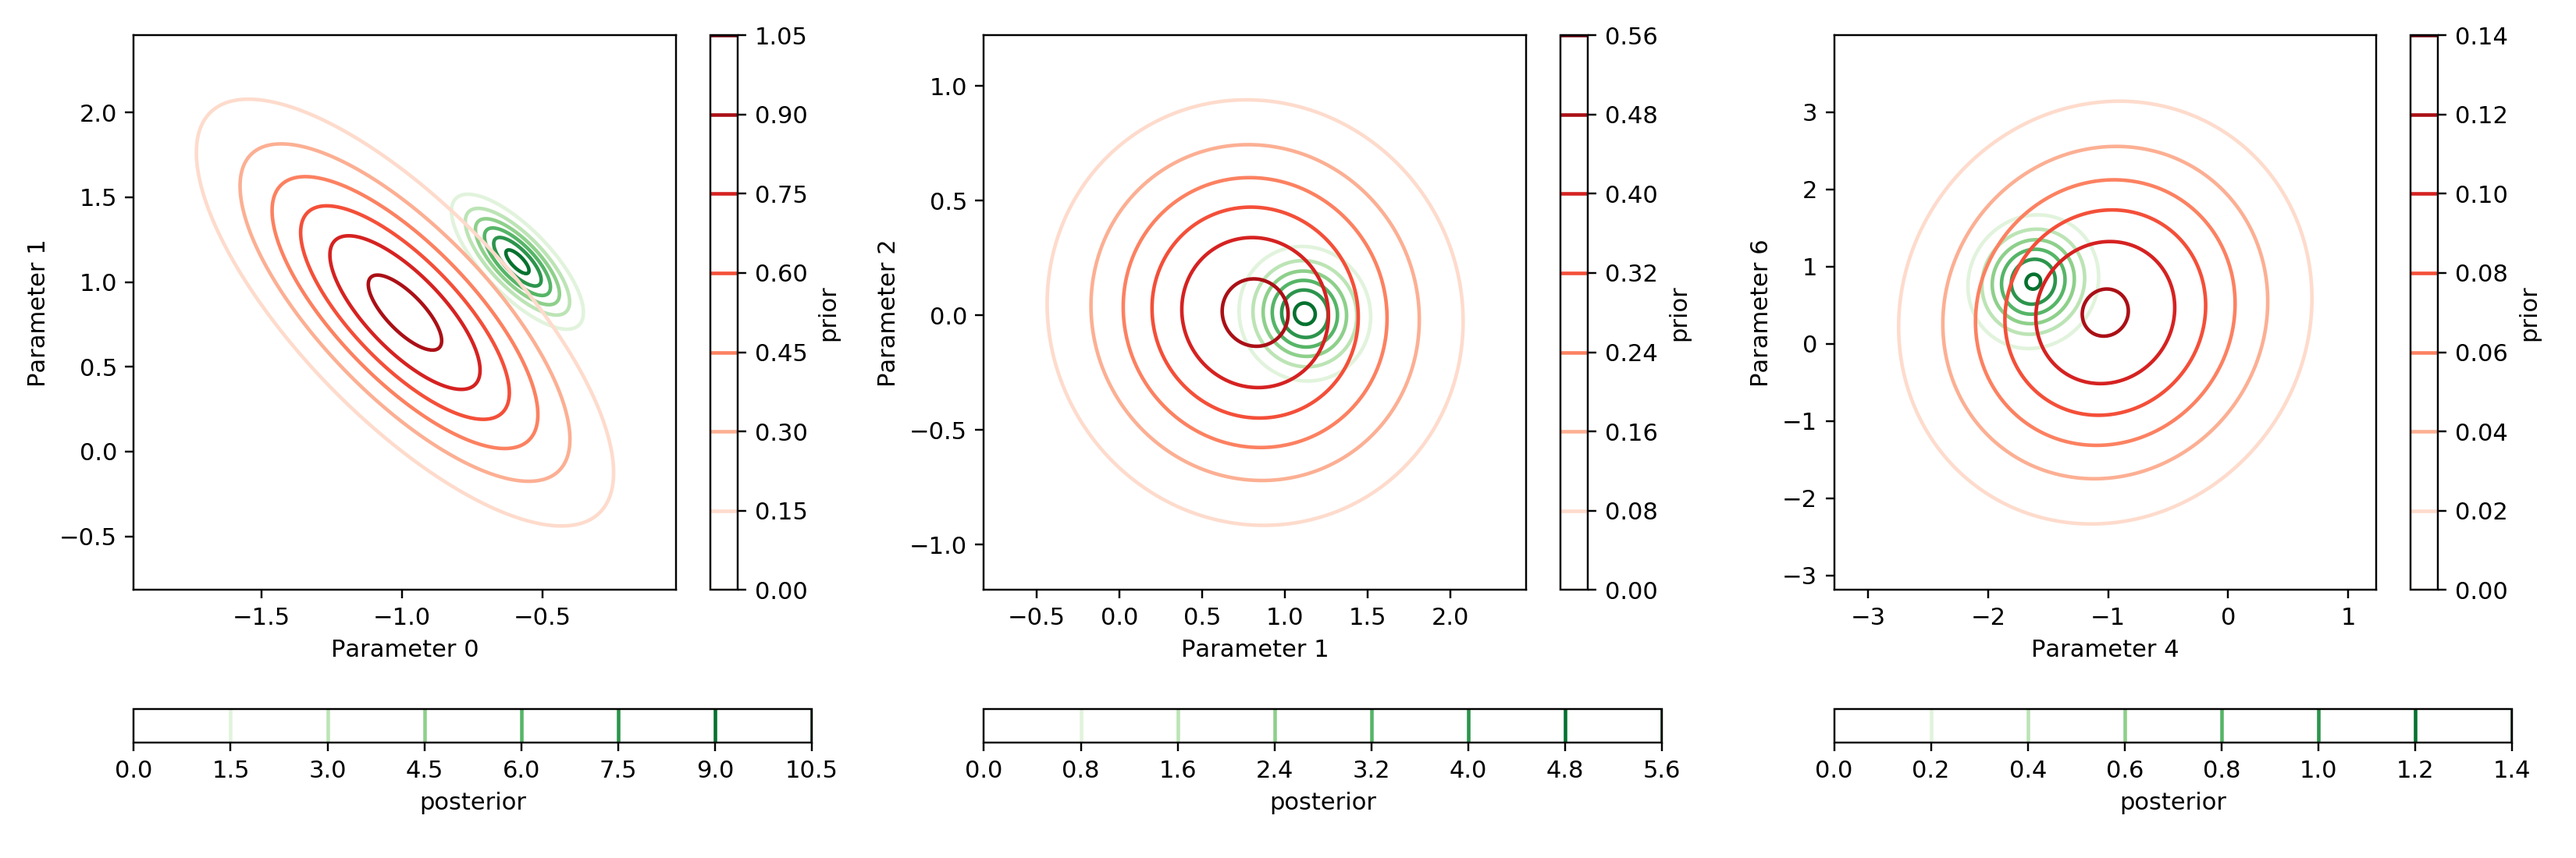
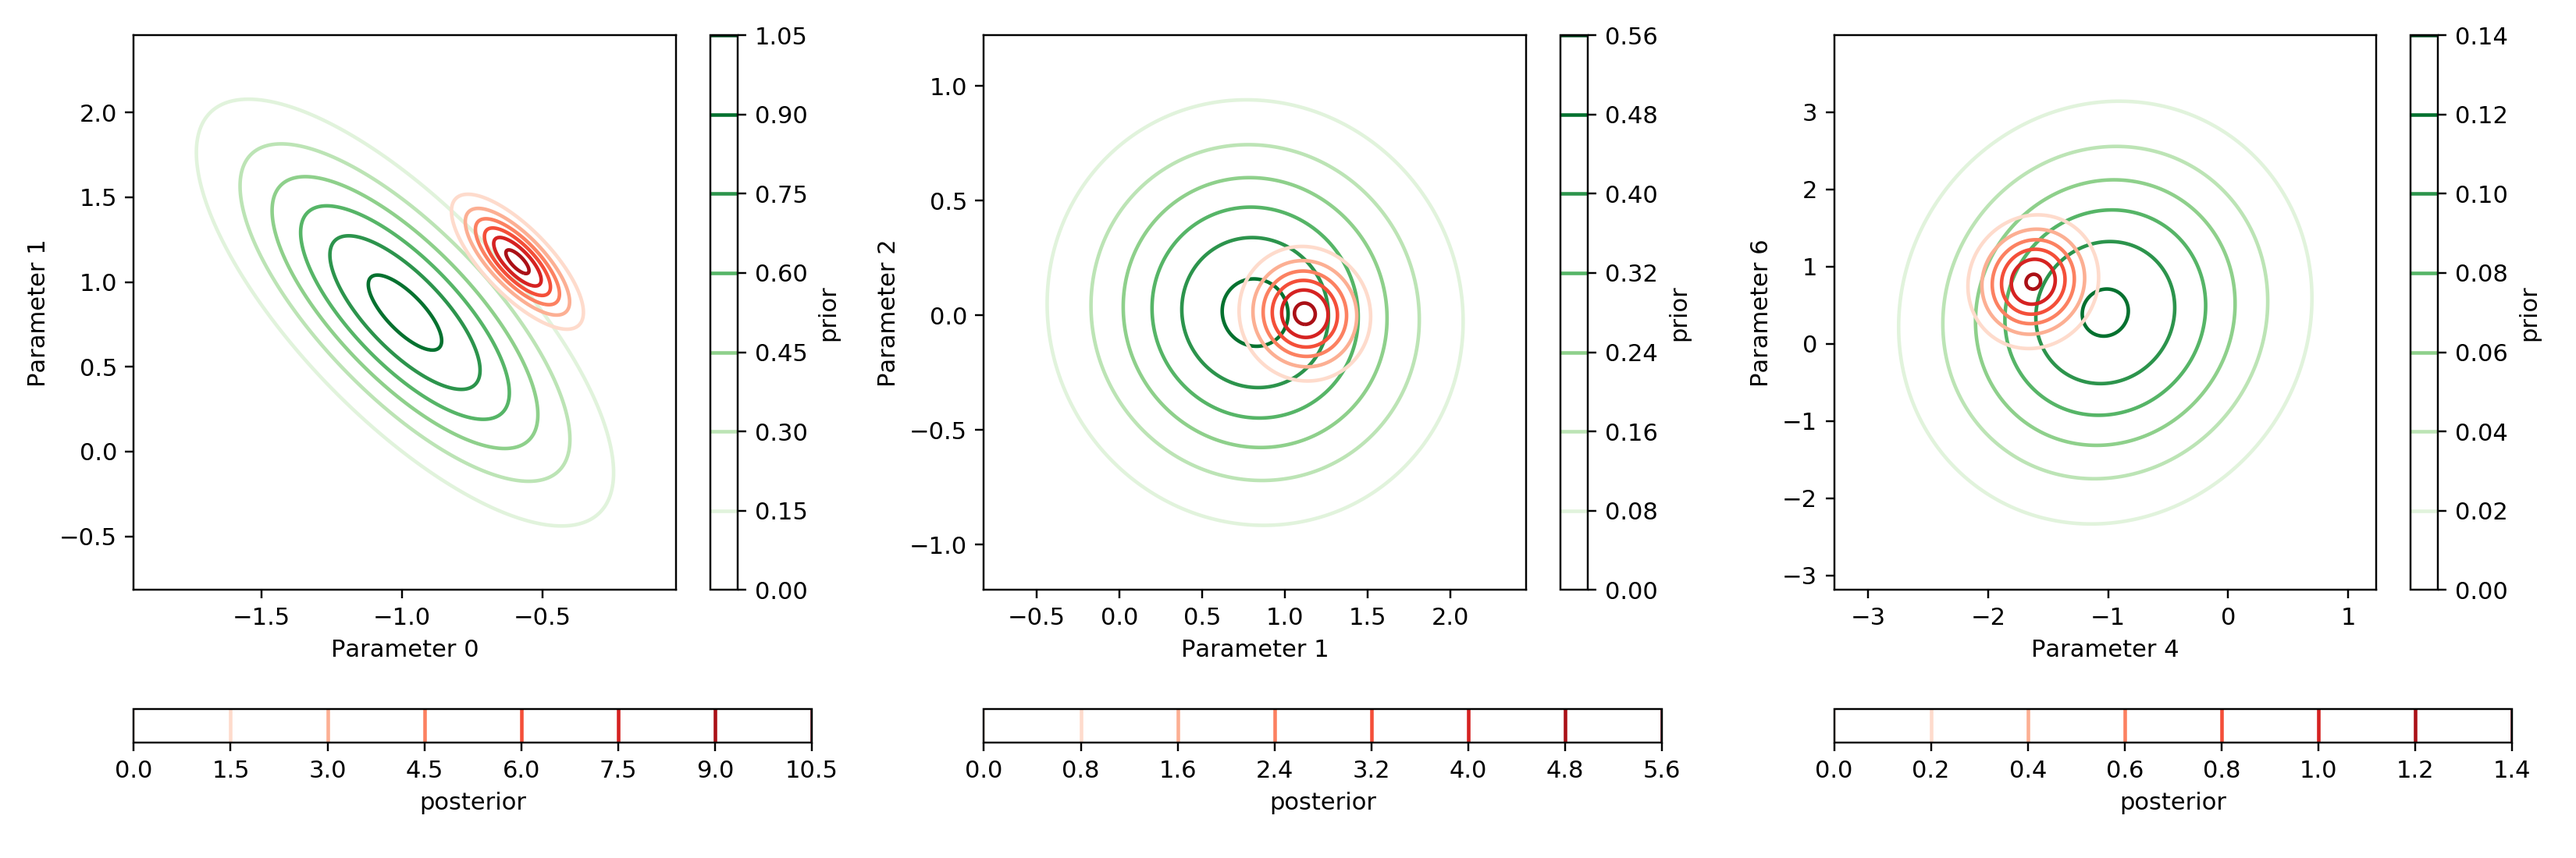
Add files via upload

diff --git a/mumpce/Project.py b/mumpce/Project.py
@@ -920,12 +920,12 @@ class Project(object):
             poste_prob_operator = multivariate_normal(poste_mean, poste_covariance) # EAW 2020/01/08
             prior_prob_mesh = prior_prob_operator.pdf(pos) # EAW 2020/01/08
             poste_prob_mesh = poste_prob_operator.pdf(pos) # EAW 2020/01/08
-            cposte = ax.contour(x_mesh,y_mesh,poste_prob_mesh,cmap=cm.Greens) #EAW 2020/01/08 levels=levels
+            cprior = ax.contour(x_mesh,y_mesh,prior_prob_mesh,cmap=cm.Greens) # EAW 2020/01/08 xx,yy,prior_pdf,colors='k',linestyles='dotted',levels=levels
+            cposte = ax.contour(x_mesh,y_mesh,poste_prob_mesh,cmap=cm.Reds) #EAW 2020/01/08 levels=levels
             poste_colorbar = fig.colorbar(cposte,ax=ax,orientation='horizontal') # EAW 2020/01/07
-            poste_colorbar.set_label('posterior') # EAW 2020/01/07
-            cprior = ax.contour(x_mesh,y_mesh,prior_prob_mesh,cmap=cm.Reds) # EAW 2020/01/08 xx,yy,prior_pdf,colors='k',linestyles='dotted',levels=levels
             prior_colorbar = fig.colorbar(cprior,ax=ax) #EAW 2020/01/07
             prior_colorbar.set_label('prior') #EAW 2020/01/07
+            poste_colorbar.set_label('posterior') # EAW 2020/01/07
             ax.set_xlabel(params_info[0]['parameter_name'])
             ax.set_ylabel(params_info[1]['parameter_name'])
             return
